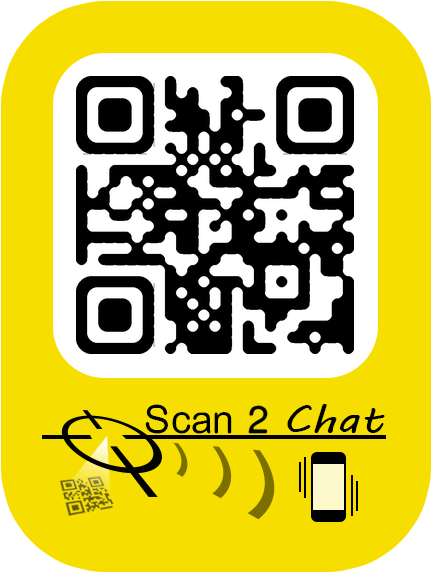
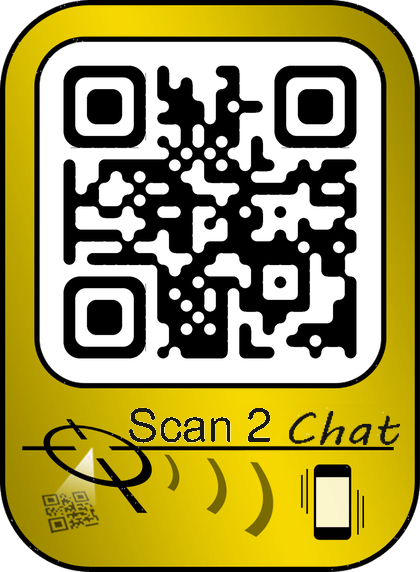
Portada: pegatinas en abanico con reflejo y borde fino; titular con GRATIS en rojo
Claude-Session: https://claude.ai/code/session_013R8ZDYyWaBdvK9dXFoGibW

diff --git a/index.html b/index.html
@@ -135,16 +135,16 @@ footer a{color:#fff;text-decoration:none}
 <main>
 <div class="hero"><div class="w">
   <div>
-    <h1>Comunícate <span>sin número de teléfono</span>.</h1>
+    <h1>Comunícate sin número de teléfono <span>GRATIS</span>.</h1>
     <p class="lead">Scan2Com convierte un código QR en una puerta de comunicación contigo. Pégalo en tu coche, tu moto, tu buzón o tus cosas: quien lo escanea con el móvil te envía una alerta, un mensaje o abre un chat. Tú eliges cómo quieres que te contacten.</p>
     <div class="ctas"><a class="btn red" href="#pegatinas">Quiero pegatinas</a><a class="btn light" href="/app/">Crear mi código gratis</a></div>
     <div style="margin-top:18px"><a class="dl appdl" href="/app/scan2com.apk"><svg viewBox="0 0 24 24" fill="#3ddc84"><path d="M17.6 9.48l1.84-3.18a.38.38 0 0 0-.66-.38l-1.86 3.22a11.4 11.4 0 0 0-9.84 0L5.22 5.92a.38.38 0 0 0-.66.38l1.84 3.18A10.8 10.8 0 0 0 1 18h22a10.8 10.8 0 0 0-5.4-8.52zM7 15.25a1.25 1.25 0 1 1 0-2.5 1.25 1.25 0 0 1 0 2.5zm10 0a1.25 1.25 0 1 1 0-2.5 1.25 1.25 0 0 1 0 2.5z"/></svg><span><small class="dlsub">Descarga la app para</small><b>Android</b></span></a></div>
   </div>
   <div class="pila" aria-label="Pegatinas Scan 2 Alert, Chat, Link y Contact">
-    <img src="/img/pila-contact.png" alt="Scan 2 Contact" style="--i:3">
-    <img src="/img/pila-link.png" alt="Scan 2 Link" style="--i:2">
-    <img src="/img/pila-chat.png" alt="Scan 2 Chat" style="--i:1">
-    <img src="/img/pila-alert.png" alt="Scan 2 Alert" style="--i:0">
+    <img src="/img/pila-contact.png?v=2" alt="Scan 2 Contact" style="--i:3">
+    <img src="/img/pila-link.png?v=2" alt="Scan 2 Link" style="--i:2">
+    <img src="/img/pila-chat.png?v=2" alt="Scan 2 Chat" style="--i:1">
+    <img src="/img/pila-alert.png?v=2" alt="Scan 2 Alert" style="--i:0">
   </div>
 </div></div>
 
